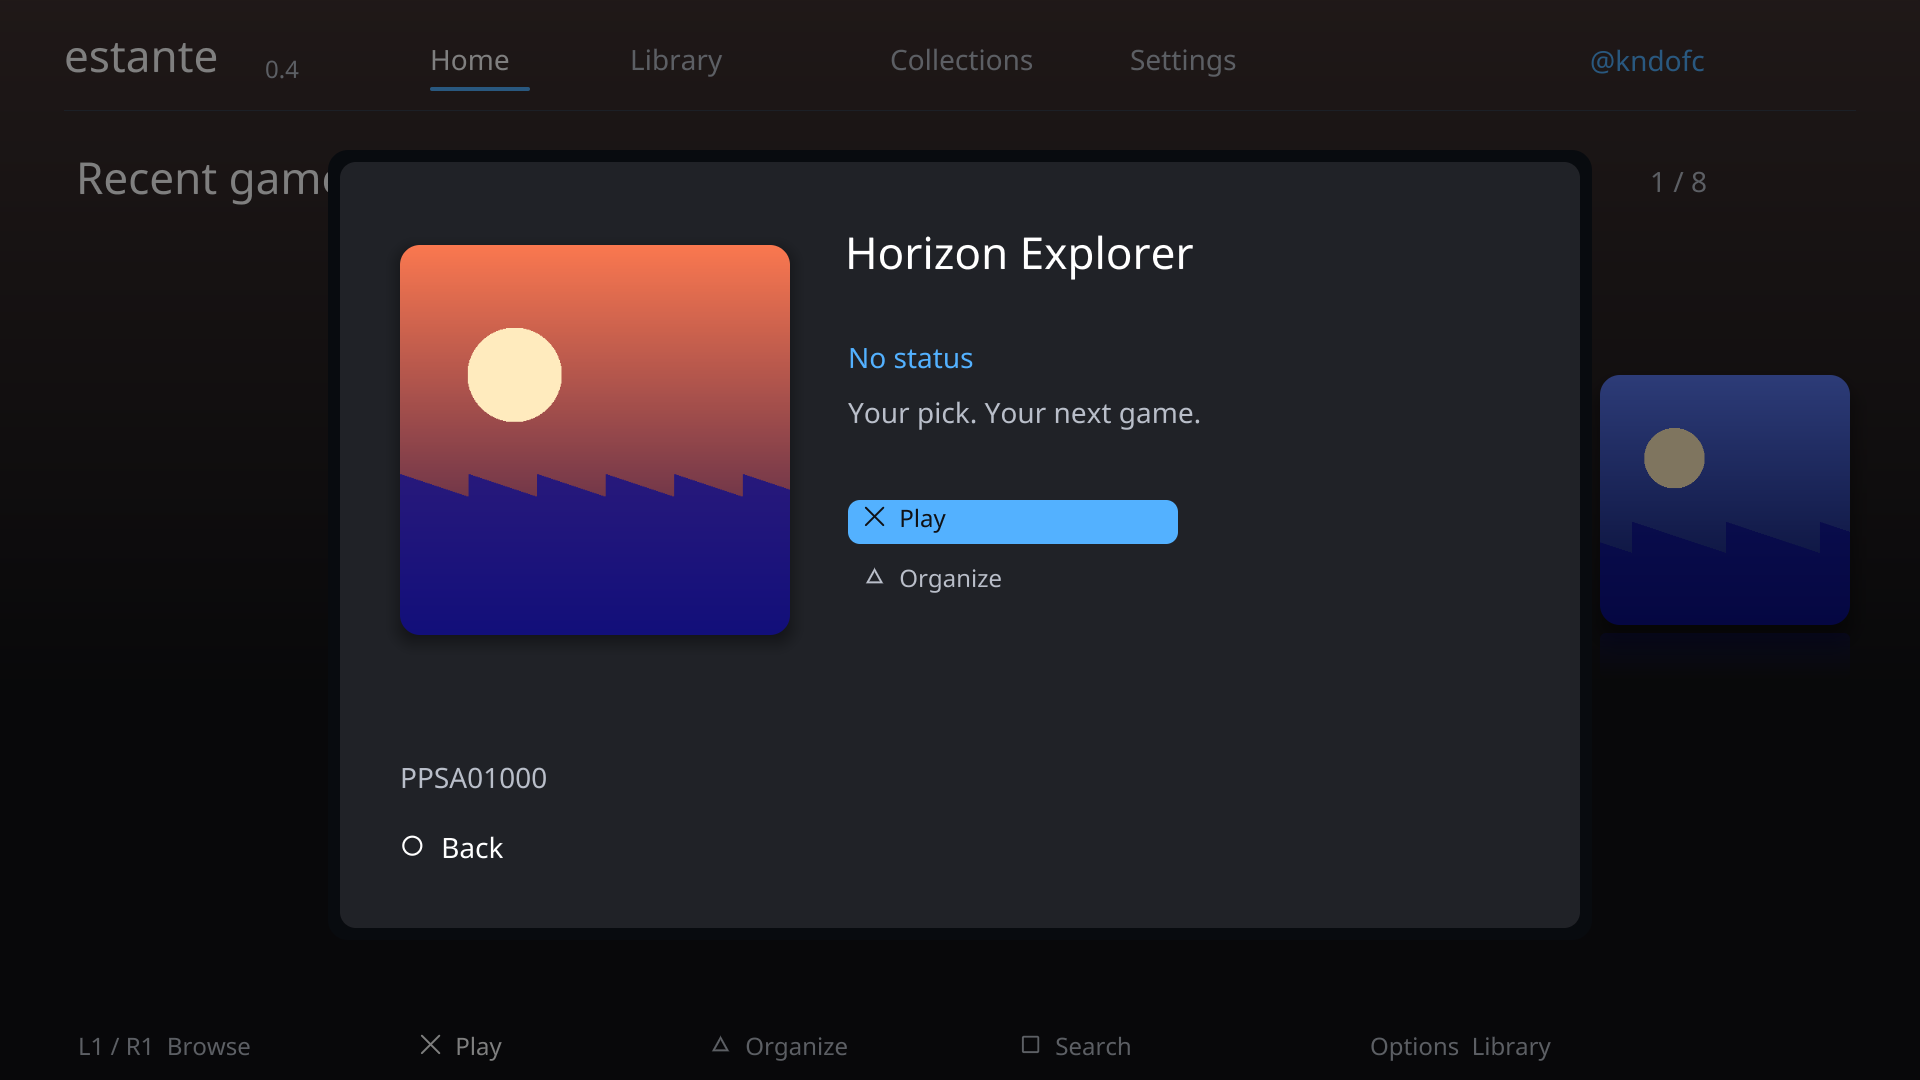
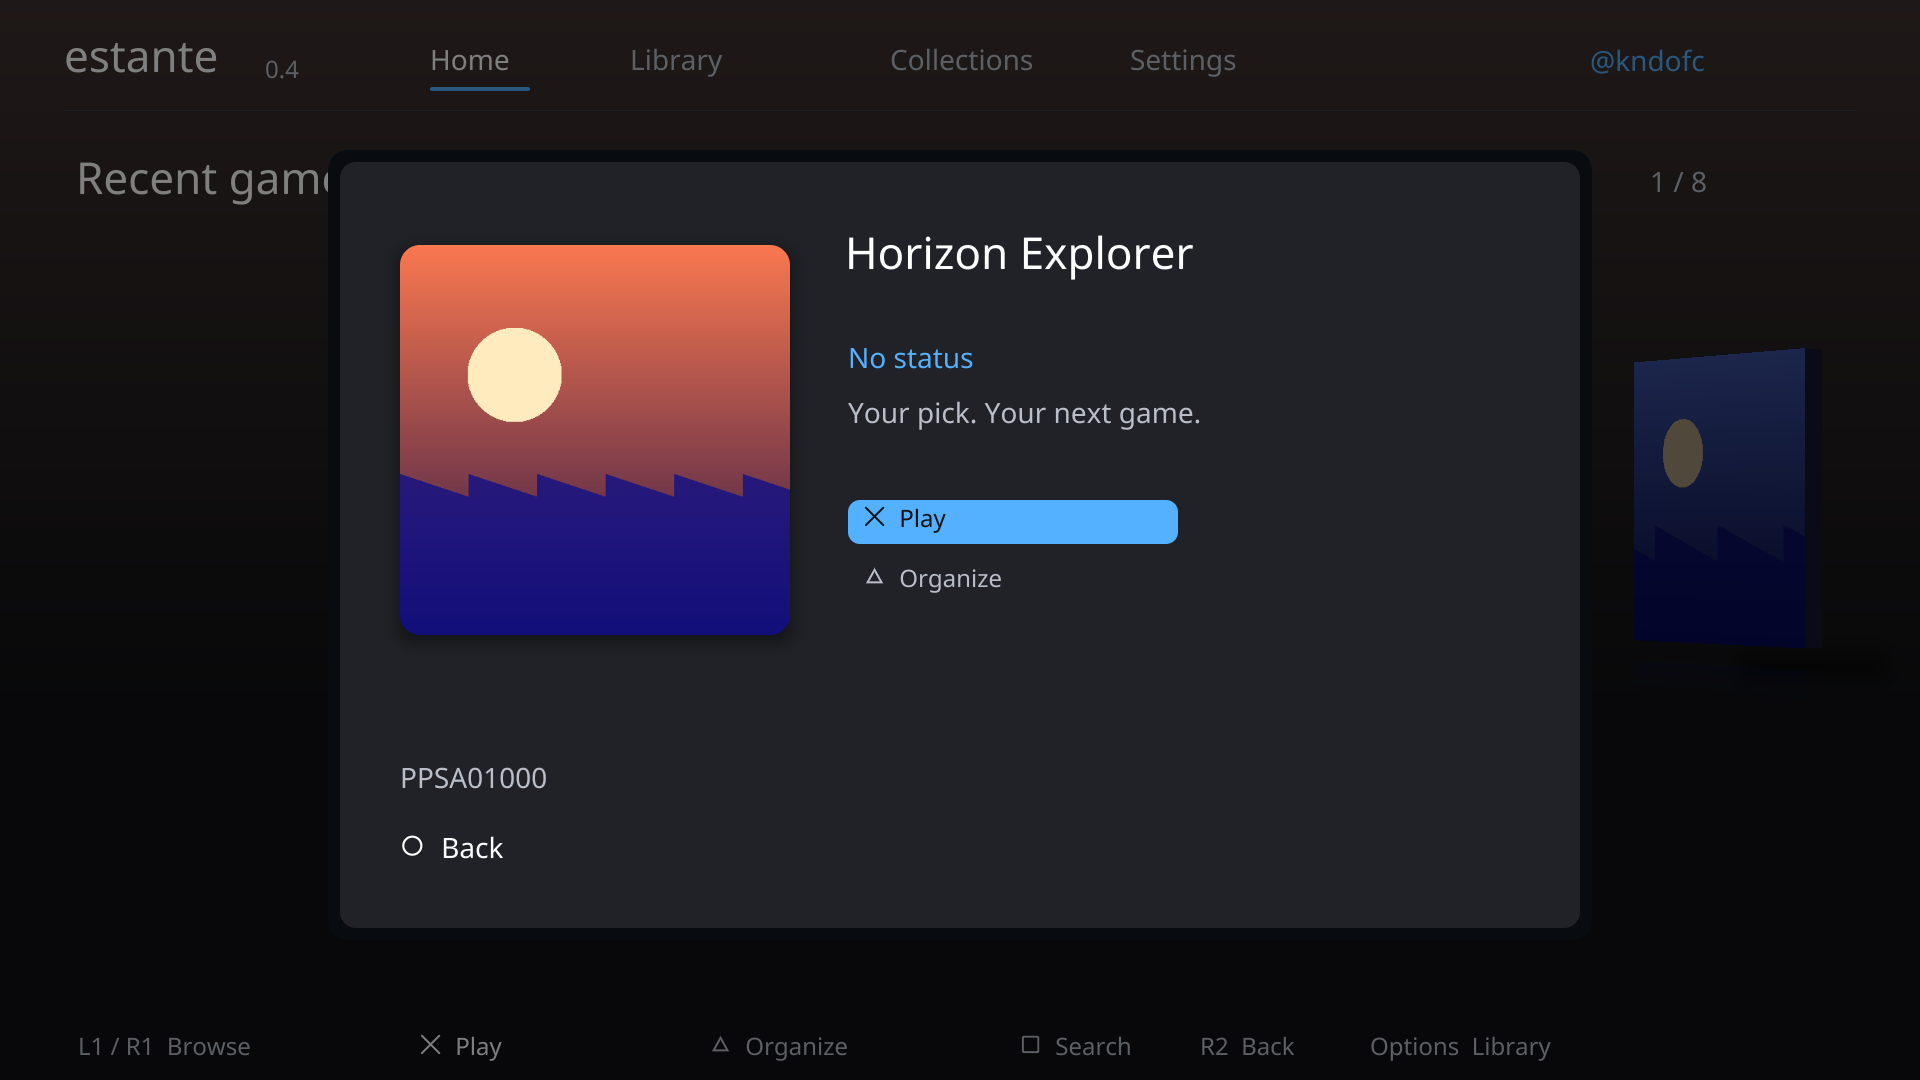
docs: README and screenshots for the 3D case interface

Changed region(s): [[0.8125, 0.3056, 0.9688, 0.6111], [0.625, 0.9472, 0.6562, 0.9778]]

diff --git a/README.md b/README.md
@@ -3,7 +3,7 @@
 Organizador de biblioteca que roda no proprio PS5, com navegacao pelo controle.
 *A native PS5 library organizer with controller navigation, for jailbroken consoles.*
 
-**English:** Estante ("shelf" in Portuguese) runs on the console itself: a Home screen with recently played games, a Library with large covers, filters, search and sort, your own collections, favorites and hidden titles, left stick and touchpad support. The language (English or Portuguese) follows your PS5 system language. It needs ShadowMountPlus and Elf Arsenal (the app reads the game list and covers from its local API) and was only tested on firmware 11.60. The interface is drawn on the console's GPU (OpenGL through the [ps5-opengl](https://github.com/blackbearreloaded/ps5-opengl) SDK and the renderer of [ps5-homebrew-ui](https://github.com/blackbearreloaded/ps5-homebrew-ui)): a cover flow with floor reflections that slides with a spring, a launch animation where the cover opens like a case and a disc rolls out, and four color themes. Prototype: expect bugs. Downloads and install notes: [latest release](https://github.com/kauansilvalopes/estante/releases/tag/v0.2.0).
+**English:** Estante ("shelf" in Portuguese) runs on the console itself: a Home screen with recently played games, a Library with large covers, filters, search and sort, your own collections, favorites and hidden titles, left stick and touchpad support. The language (English or Portuguese) follows your PS5 system language. It needs ShadowMountPlus and Elf Arsenal (the app reads the game list and covers from its local API) and was only tested on firmware 11.60. The interface is drawn on the console's GPU (OpenGL through the [ps5-opengl](https://github.com/blackbearreloaded/ps5-opengl) SDK and the renderer of [ps5-homebrew-ui](https://github.com/blackbearreloaded/ps5-homebrew-ui)): real 3D game cases in perspective (cover flow with floor reflections, a glint that follows the tilt, a spine with the game name), turned by hand with the right stick or flipped with R2/L2 to a back with your own data (play time, last played, status, collections) and a wide picture of the game, a launch animation where the case opens and the disc rolls out with the game's art on its label, and four color themes. Portrait covers come from the PC tool `tools/ps5_covers_sync.py`; without them the app uses the square icon. Prototype: expect bugs. Downloads and install notes: [latest release](https://github.com/kauansilvalopes/estante/releases/tag/v0.4.0).
 
 ## Screenshots
 
@@ -18,6 +18,10 @@ Rendered by the real draw code through the GPU renderer on a PC (Mesa) with plac
 | ![Details](docs/screenshots/details.png) | ![Menu](docs/screenshots/menu.png) |
 | **Apps** | **Settings** |
 | ![Apps](docs/screenshots/apps.png) | ![Settings](docs/screenshots/settings.png) |
+| **Case turned by the right stick (spine)** | **Back of the case (R2 / L2)** |
+| ![Spine](docs/screenshots/spine.png) | ![Back](docs/screenshots/back.png) |
+| **Launch: the case opens, the disc comes out** | |
+| ![Launch](docs/screenshots/launch.png) | |
 
 **Versão 0.3 em desenvolvimento.** Nova experiência nativa com quatro áreas:
 Início, Biblioteca, Coleções e Ajustes. A versão 0.3 iniciou no PS5 do autor (FW 11.60), abriu o controle e carregou o catálogo.
